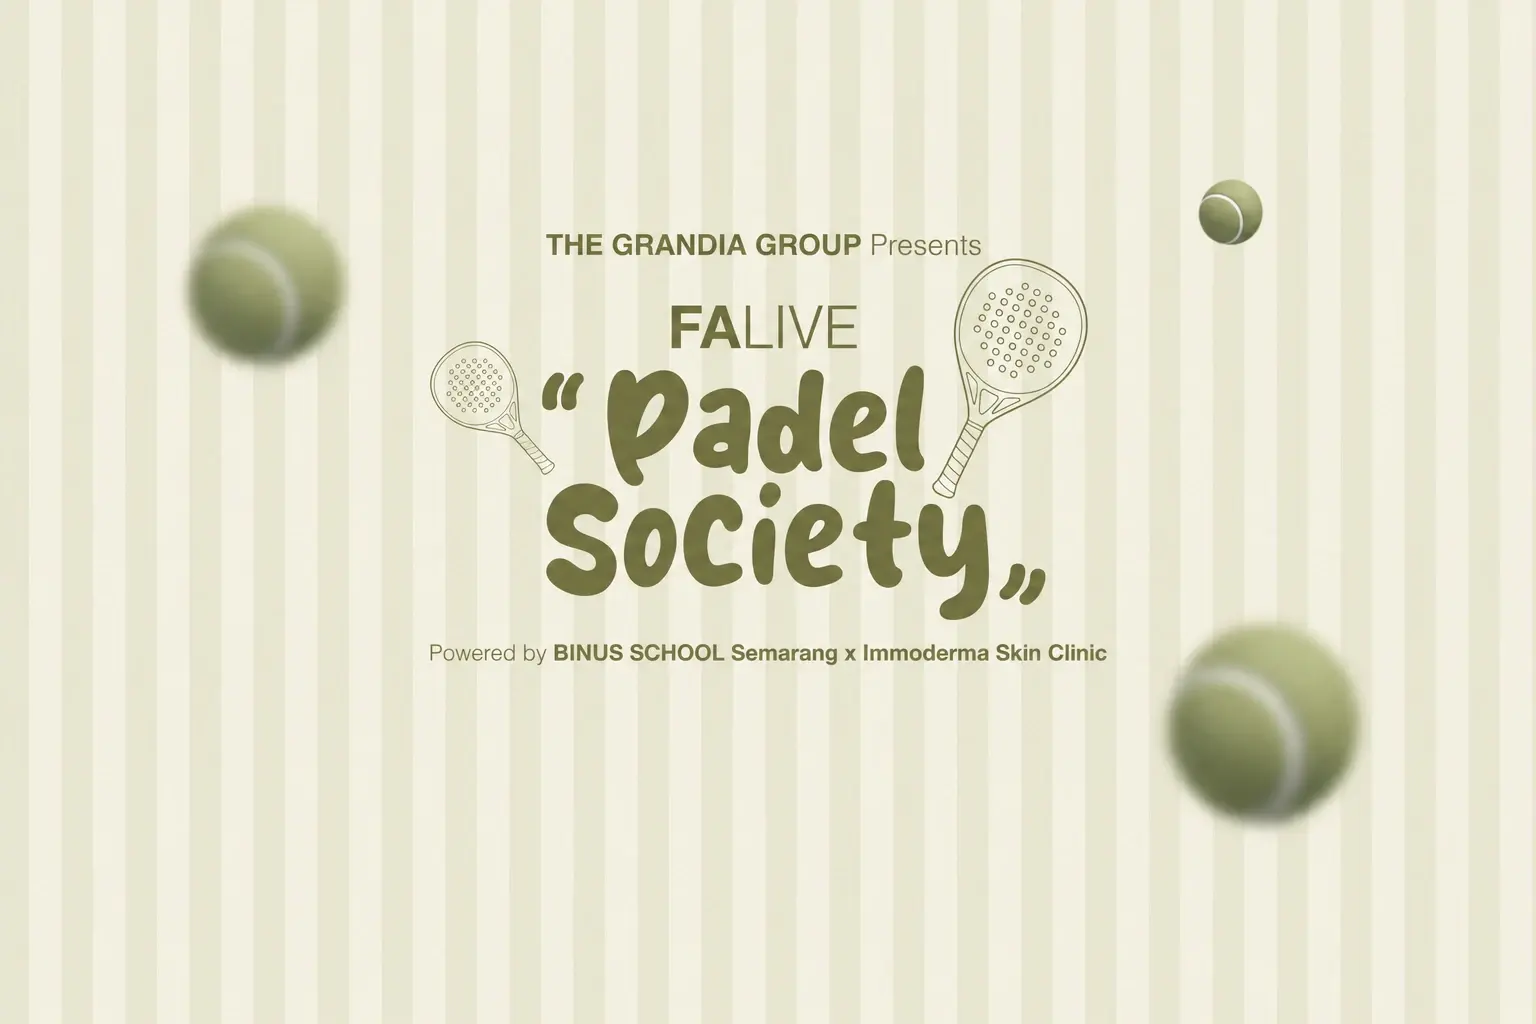
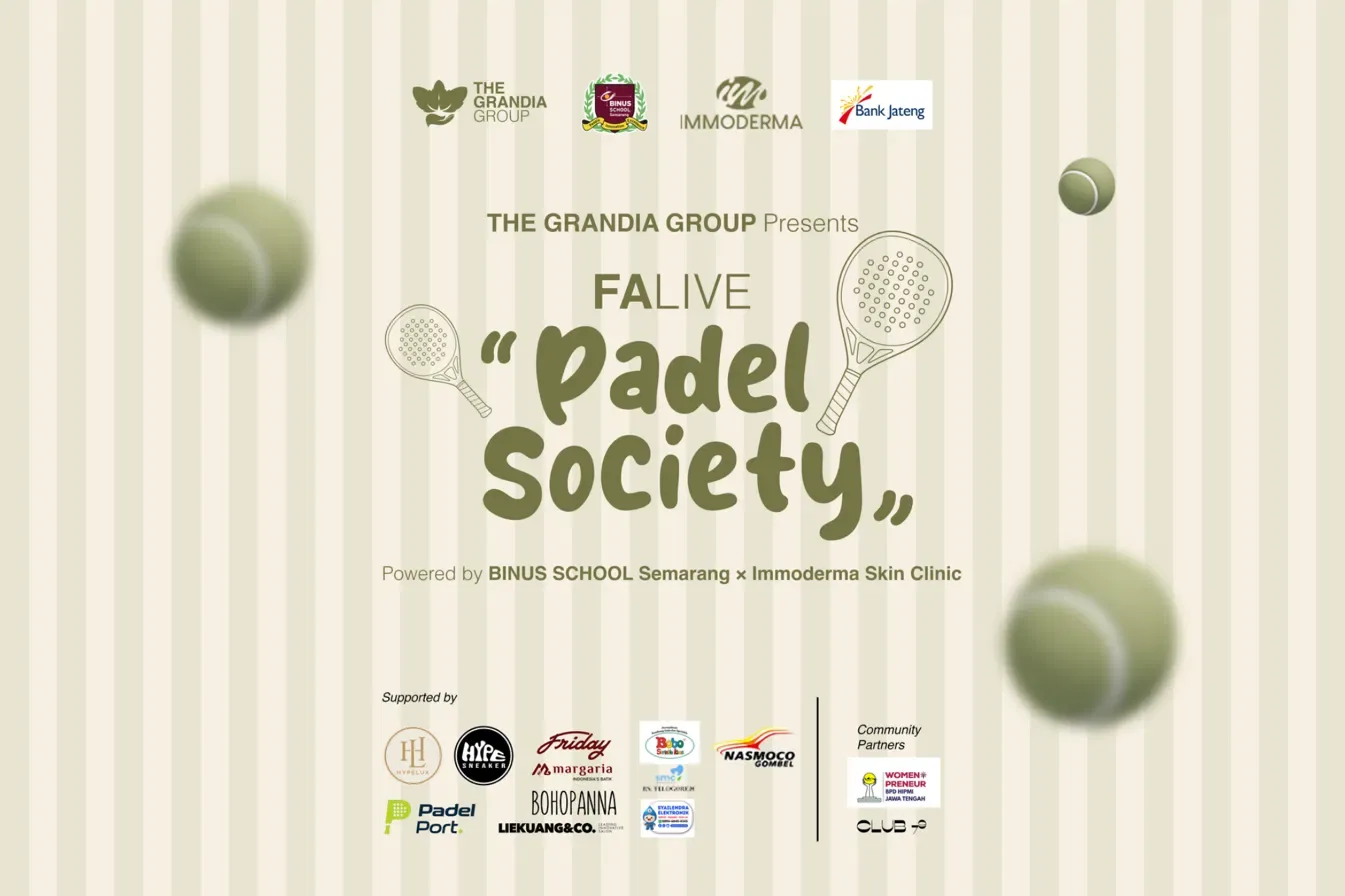
feat(ui): use the organiser's combined flyer and drop the sponsor card
The organiser's latest flyer carries every logo: the presenters, the eleven supporters and the community partners. The logo strip, the community marks and the Supported by card are removed, so after the first screen only the When and where card rises. A phone gets the middle column of the flyer edge to edge, all the content without the balls at the sides; from 640px up the whole flyer is shown, framed. The flyer's alt text now names every supporter and partner, because the image is the only place they appear.

The WhatsApp preview shows the whole flyer on cream rather than a crop that would lose the logos. The cover drops from 354 KB to 300 KB at Performance 95.

diff --git a/components/invitation/CoverBackdrop.tsx b/components/invitation/CoverBackdrop.tsx
@@ -1,21 +1,18 @@
 "use client";
 
-import Image from "next/image";
 import { useEffect, useState } from "react";
 import { BRAND } from "@/lib/brand";
 
 /**
- * The layer behind the cover — DESIGN.md section 5.1: the striped wall, the
- * presenters' logos, the flyer, and the community partners, pinned while the
- * page scrolls. The logos and the partners used to be printed on the flyer
- * itself; the organiser now supplies them as their own files, so they are set
- * around it here.
+ * The layer behind the cover — DESIGN.md section 5.1: the striped wall and the
+ * organiser's flyer on it, pinned while the page scrolls. The flyer carries
+ * every logo, the supporters and the community partners included, so nothing
+ * else is set around it.
  *
  * Once the card named by `revealId` has risen past the lower fifth of the
  * screen, the whole layer blurs and fades back so the eye moves to the card,
  * and it sharpens again when the visitor scrolls back up. Blurring the stripes
- * with the artwork keeps the flyer's edge from standing out against a sharp
- * background.
+ * with the flyer keeps its edge from standing out against a sharp background.
  *
  * The blur is switched, not scrubbed: a filter recomputed on every scroll
  * frame stutters on a cheap phone, a single transition does not. Without
@@ -25,8 +22,6 @@ import { BRAND } from "@/lib/brand";
 type CoverBackdropProps = {
   revealId: string;
 };
-
-const CAPTION = "font-sans text-sm font-normal tracking-[0.12em] text-ink";
 
 export function CoverBackdrop({ revealId }: CoverBackdropProps) {
   const [blurred, setBlurred] = useState(false);
@@ -45,7 +40,7 @@ export function CoverBackdrop({ revealId }: CoverBackdropProps) {
     return () => observer.disconnect();
   }, [revealId]);
 
-  const { presenters, flyer, communities } = BRAND;
+  const { flyer } = BRAND;
 
   return (
     // lvh, the screen with the address bar hidden, so the layer always covers
@@ -57,60 +52,24 @@ export function CoverBackdrop({ revealId }: CoverBackdropProps) {
     >
       <div className="keep-fade paper-stripes absolute inset-0 transition-[filter] duration-500 ease-out group-data-blurred:blur-md">
         {/* Placed within svh, not dvh: dvh follows the address bar in and out,
-            and the artwork would jump in size. */}
-        <div className="flex h-svh flex-col items-center justify-center gap-5 px-4 pt-4 pb-24 sm:gap-7 sm:px-6 sm:pt-8 sm:pb-28">
-          <Image
-            src={presenters.src}
-            alt={presenters.alt}
-            width={presenters.width}
-            height={presenters.height}
-            priority
-            sizes="(max-width: 639px) 84vw, 420px"
-            quality={60}
-            className="hidden h-auto w-[84%] max-w-[26.25rem] [@media(min-height:600px)]:block"
-          />
-
+            and the flyer would jump in size. */}
+        <div className="flex h-svh items-center justify-center pt-4 pb-24 sm:px-6 sm:pt-8 sm:pb-28">
           {/* One file is fetched, not two: a second <Image> hidden with CSS
-              would still be downloaded. The height caps keep the stack on the
-              screen: on a short screen — a phone held sideways — the logos and
-              the partners step aside and the flyer takes the room. */}
+              would still be downloaded. Edge to edge on a phone, framed from
+              640px up. The height cap keeps the whole flyer on a short screen,
+              a phone held sideways among them. */}
           <picture className="transition-[scale] duration-500 ease-out motion-safe:group-data-blurred:scale-105">
             <source media="(min-width: 640px)" srcSet={flyer.wide.src} />
             <img
-              src={flyer.square.src}
+              src={flyer.portrait.src}
               alt={flyer.alt}
-              width={flyer.square.width}
-              height={flyer.square.height}
+              width={flyer.portrait.width}
+              height={flyer.portrait.height}
               fetchPriority="high"
               decoding="async"
-              className="block h-auto max-h-[calc(100svh-8rem)] w-auto max-w-full rounded-card shadow-card sm:max-w-[34rem] lg:max-w-[42rem] [@media(min-height:600px)]:max-h-[calc(100svh-18rem)] sm:[@media(min-height:600px)]:max-h-[calc(100svh-20rem)]"
+              className="block h-auto max-h-[calc(100svh-8rem)] w-auto max-w-full sm:max-h-[calc(100svh-10rem)] sm:max-w-[42rem] sm:rounded-card sm:shadow-card lg:max-w-[56rem]"
             />
           </picture>
-
-          <div className="hidden flex-col items-center gap-3 [@media(min-height:600px)]:flex">
-            <p className={CAPTION}>Community Partners</p>
-            <div className="flex items-center gap-4">
-              <Image
-                src={communities.womenpreneur.src}
-                alt={communities.womenpreneur.alt}
-                width={communities.womenpreneur.width}
-                height={communities.womenpreneur.height}
-                sizes="120px"
-                quality={60}
-                className="h-11 w-auto md:h-12"
-              />
-              <span aria-hidden="true" className="h-9 w-px bg-line" />
-              <Image
-                src={communities.club79.src}
-                alt={communities.club79.alt}
-                width={communities.club79.width}
-                height={communities.club79.height}
-                sizes="120px"
-                quality={60}
-                className="h-4 w-auto md:h-5"
-              />
-            </div>
-          </div>
         </div>
       </div>
       <div

diff --git a/lib/brand.ts b/lib/brand.ts
@@ -15,12 +15,6 @@ export type ImageFile = {
   height: number;
 };
 
-/** An image that stands on its own, so it carries its own alt text. */
-export type BrandImage = ImageFile & {
-  /** The artwork is mostly text, so the alt text reads it out in full. */
-  alt: string;
-};
-
 /**
  * The venue's own mark, supplied by the organiser. Shown in place of the
  * venue name wherever the event in the database is held at this venue — the
@@ -56,53 +50,22 @@ export function venueLogoFor(venueName: string): typeof VENUE_LOGO | null {
 export const BRAND = {
   /** Rendered uppercase by CSS, as on the flyer. Also the site name in titles. */
   presenter: "The Grandia Group",
-  /** The logos printed above the flyer until the organiser sent it without them. */
-  presenters: {
-    src: "/brand/presenters.webp",
-    width: 1855,
-    height: 228,
-    alt: "The Grandia Group, BINUS School Semarang, Immoderma, and Bank Jateng.",
-  },
   /**
-   * The organiser's flyer, in two crops of the same file. A phone gets the
-   * square middle — the title and the two rackets — because the wide version
-   * shrinks to a strip there; anything from 640px up gets the whole picture,
-   * balls and all.
+   * The organiser's flyer, which carries every logo: the presenters, the
+   * supporters, and the community partners. It comes in two crops of the same
+   * file. A phone gets the middle column, all the content without the balls at
+   * the sides, because the whole picture shrinks to a strip there; anything
+   * from 640px up gets the whole picture.
+   *
+   * The flyer is the only place the supporters appear, so the alt text names
+   * every one of them.
    */
   flyer: {
-    alt: "FA Live Padel Society. The Grandia Group presents, powered by BINUS School Semarang and Immoderma Skin Clinic.",
-    square: { src: "/brand/flyer-square.webp", width: 780, height: 780 },
-    wide: { src: "/brand/flyer-wide.webp", width: 1536, height: 1024 },
-  },
-  /** Printed at the foot of the flyer until the organiser sent it without them. */
-  communities: {
-    womenpreneur: {
-      src: "/brand/community-womenpreneur.webp",
-      width: 1497,
-      height: 696,
-      alt: "Womenpreneur BPD HIPMI Jawa Tengah",
-    },
-    club79: {
-      src: "/brand/community-club79.webp",
-      width: 593,
-      height: 121,
-      alt: "Club 79",
-    },
-  },
-  /**
-   * The supporters' logos, prepared for the cream card and used whole. The
-   * community partners are left out: they have their own place on the cover.
-   */
-  sponsors: {
-    src: "/brand/sponsors-supported.webp",
-    width: 1927,
-    height: 545,
-    alt: "Hypelux, Hype Sneaker, Friday, Margaria Indonesia's Batik, Bohopanna, Liekuang & Co., Padel Port, Bobo Sprinkle Kids, SMC RS Telogorejo, Syailendra Elektronik, and Nasmoco Gombel.",
+    alt: "FA Live Padel Society. The Grandia Group presents, powered by BINUS School Semarang and Immoderma Skin Clinic, with Bank Jateng. Supported by Hypelux, Hype Sneaker, Friday, Margaria Indonesia's Batik, Bohopanna, Liekuang & Co., Padel Port, Bobo Sprinkle Kids, SMC RS Telogorejo, Syailendra Elektronik, and Nasmoco Gombel. Community partners: Womenpreneur BPD HIPMI Jawa Tengah and Club 79.",
+    portrait: { src: "/brand/flyer-portrait.webp", width: 640, height: 896 },
+    wide: { src: "/brand/flyer-wide.webp", width: 1345, height: 896 },
   },
 } as const satisfies {
   presenter: string;
-  presenters: BrandImage;
-  flyer: { alt: string; square: ImageFile; wide: ImageFile };
-  communities: Record<"womenpreneur" | "club79", BrandImage>;
-  sponsors: BrandImage;
+  flyer: { alt: string; portrait: ImageFile; wide: ImageFile };
 };

diff --git a/components/invitation/Cover.tsx b/components/invitation/Cover.tsx
@@ -1,6 +1,4 @@
-import Image from "next/image";
 import { VenueMark } from "@/components/ui/VenueMark";
-import { BRAND } from "@/lib/brand";
 import type { EventDetail } from "@/lib/validation/event-content";
 import { CoverAction, type CoverActionProps } from "./CoverAction";
 import { CoverBackdrop } from "./CoverBackdrop";
@@ -10,15 +8,15 @@ import { EventNotes } from "./EventNotes";
  * The cover — the whole of `/` — as DESIGN.md section 5.1 lays it out, in two
  * layers. Behind: the striped wall and the organiser's flyer, pinned for the
  * whole page. In front: a first screen that holds nothing but the hint to
- * scroll, then the "When & where" card and the supporters' card, which rise
- * over the flyer and blur it.
+ * scroll, then the "When & where" card, which rises over the flyer and blurs
+ * it.
  *
- * The flyer carries the event's title and the presenter line, so the page has
- * no BrandHeader and its h1 is for screen readers only. The date, time and
- * venue come from the database: the flyer does not print them.
+ * The flyer carries the title, the presenters, the supporters and the
+ * community partners, so the page has no BrandHeader, no sponsor card, and an
+ * h1 for screen readers only. The date, time and venue come from the
+ * database: the flyer does not print them.
  */
 
-// Both cards are the same card, colour included.
 const CARD =
   "mx-auto w-full max-w-[26.25rem] rounded-card border border-line bg-surface px-5 py-8 text-center shadow-card sm:px-8 md:max-w-[30rem] md:px-10";
 
@@ -44,8 +42,6 @@ export function Cover({
   notes,
   action,
 }: CoverProps) {
-  const { sponsors } = BRAND;
-
   return (
     <main className="relative flex flex-1 flex-col">
       <h1 className="sr-only">{eventName}</h1>
@@ -66,7 +62,7 @@ export function Cover({
       <section
         id="details"
         aria-labelledby="details-title"
-        className="relative z-10 scroll-mt-6 px-4"
+        className="relative z-10 scroll-mt-6 px-4 pb-12"
       >
         <div className={CARD}>
           <h2
@@ -89,27 +85,6 @@ export function Cover({
           <div className="mt-8">
             <CoverAction {...action} />
           </div>
-        </div>
-      </section>
-
-      <section aria-labelledby="sponsors-title" className="relative z-10 mt-6 px-4 pb-12">
-        <div className={`${CARD} flex flex-col items-center gap-4`}>
-          {/* As the flyer sets "Community Partners": regular weight, letter-spaced. */}
-          <h2
-            id="sponsors-title"
-            className="font-sans text-sm font-normal tracking-[0.12em] text-ink md:text-base"
-          >
-            Supported by
-          </h2>
-          <Image
-            src={sponsors.src}
-            alt={sponsors.alt}
-            width={sponsors.width}
-            height={sponsors.height}
-            sizes="(max-width: 480px) calc(100vw - 4.5rem), 416px"
-            quality={60}
-            className="h-auto w-full"
-          />
         </div>
       </section>
     </main>

diff --git a/tests/unit/brand.test.ts b/tests/unit/brand.test.ts
@@ -55,14 +55,7 @@ describe('BRAND', () => {
   // next/image reserves space from these numbers. When the organiser sends a
   // new file, a size left stale would stretch the artwork.
   it('records the real size of every brand image', () => {
-    const images = [
-      BRAND.flyer.square,
-      BRAND.flyer.wide,
-      BRAND.presenters,
-      BRAND.communities.womenpreneur,
-      BRAND.communities.club79,
-      BRAND.sponsors,
-    ]
+    const images = [BRAND.flyer.portrait, BRAND.flyer.wide]
 
     for (const image of images) {
       expect(webpSize(image.src), image.src).toEqual({ width: image.width, height: image.height })
